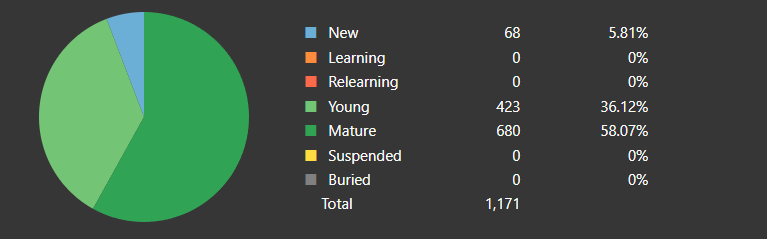
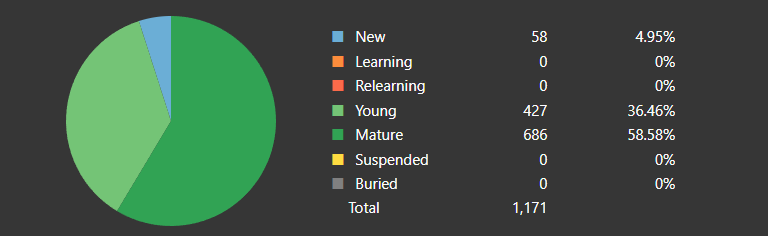
Deployed c0fcd73 with MkDocs version: 1.5.3

diff --git a/index.html b/index.html
@@ -423,15 +423,15 @@
       <ul class="md-nav__list">
         
           <li class="md-nav__item">
-  <a href="#tango-n5-as-of-120223" class="md-nav__link">
-    Tango N5 as of 12/02/23
+  <a href="#tango-n5-as-of-120323" class="md-nav__link">
+    Tango N5 as of 12/03/23
   </a>
   
 </li>
         
           <li class="md-nav__item">
-  <a href="#tango-n4-as-of-120223" class="md-nav__link">
-    Tango N4 as of 12/02/23
+  <a href="#tango-n4-as-of-120323" class="md-nav__link">
+    Tango N4 as of 12/03/23
   </a>
   
 </li>
@@ -1920,15 +1920,15 @@
       <ul class="md-nav__list">
         
           <li class="md-nav__item">
-  <a href="#tango-n5-as-of-120223" class="md-nav__link">
-    Tango N5 as of 12/02/23
+  <a href="#tango-n5-as-of-120323" class="md-nav__link">
+    Tango N5 as of 12/03/23
   </a>
   
 </li>
         
           <li class="md-nav__item">
-  <a href="#tango-n4-as-of-120223" class="md-nav__link">
-    Tango N4 as of 12/02/23
+  <a href="#tango-n4-as-of-120323" class="md-nav__link">
+    Tango N4 as of 12/03/23
   </a>
   
 </li>
@@ -1995,13 +1995,13 @@
 
 <h1 id="docjp-landing-page">doc.jp Landing Page<a class="headerlink" href="#docjp-landing-page" title="Permanent link">&para;</a></h1>
 <h2 id="anki-deck-card-counts">Anki Deck Card Counts<a class="headerlink" href="#anki-deck-card-counts" title="Permanent link">&para;</a></h2>
-<h3 id="tango-n5-as-of-120223">Tango N5 as of 12/02/23<a class="headerlink" href="#tango-n5-as-of-120223" title="Permanent link">&para;</a></h3>
-<p><strong>1103</strong> vocabulary words known with <strong>68</strong> new cards remaining </p>
+<h3 id="tango-n5-as-of-120323">Tango N5 as of 12/03/23<a class="headerlink" href="#tango-n5-as-of-120323" title="Permanent link">&para;</a></h3>
+<p><strong>1113</strong> vocabulary words known with <strong>58</strong> new cards remaining </p>
 <ul>
 <li>On track to finish all new cards on <strong>12/09/23</strong> doing <strong>10</strong> new cards a day.</li>
 </ul>
 <p><img align="center" alt="Card Counts" src="assets/anki-stats/n5-card-counts.png" /></p>
-<h3 id="tango-n4-as-of-120223">Tango N4 as of 12/02/23<a class="headerlink" href="#tango-n4-as-of-120223" title="Permanent link">&para;</a></h3>
+<h3 id="tango-n4-as-of-120323">Tango N4 as of 12/03/23<a class="headerlink" href="#tango-n4-as-of-120323" title="Permanent link">&para;</a></h3>
 <p><strong>0</strong> vocabulary words known with <strong>917</strong> new cards remaining: Haven't started this deck yet.</p>
 <p><img align="center" alt="Card Counts" src="assets/anki-stats/n4-card-counts.png" /></p>
 <h2 id="grammar-learning">Grammar Learning<a class="headerlink" href="#grammar-learning" title="Permanent link">&para;</a></h2>
